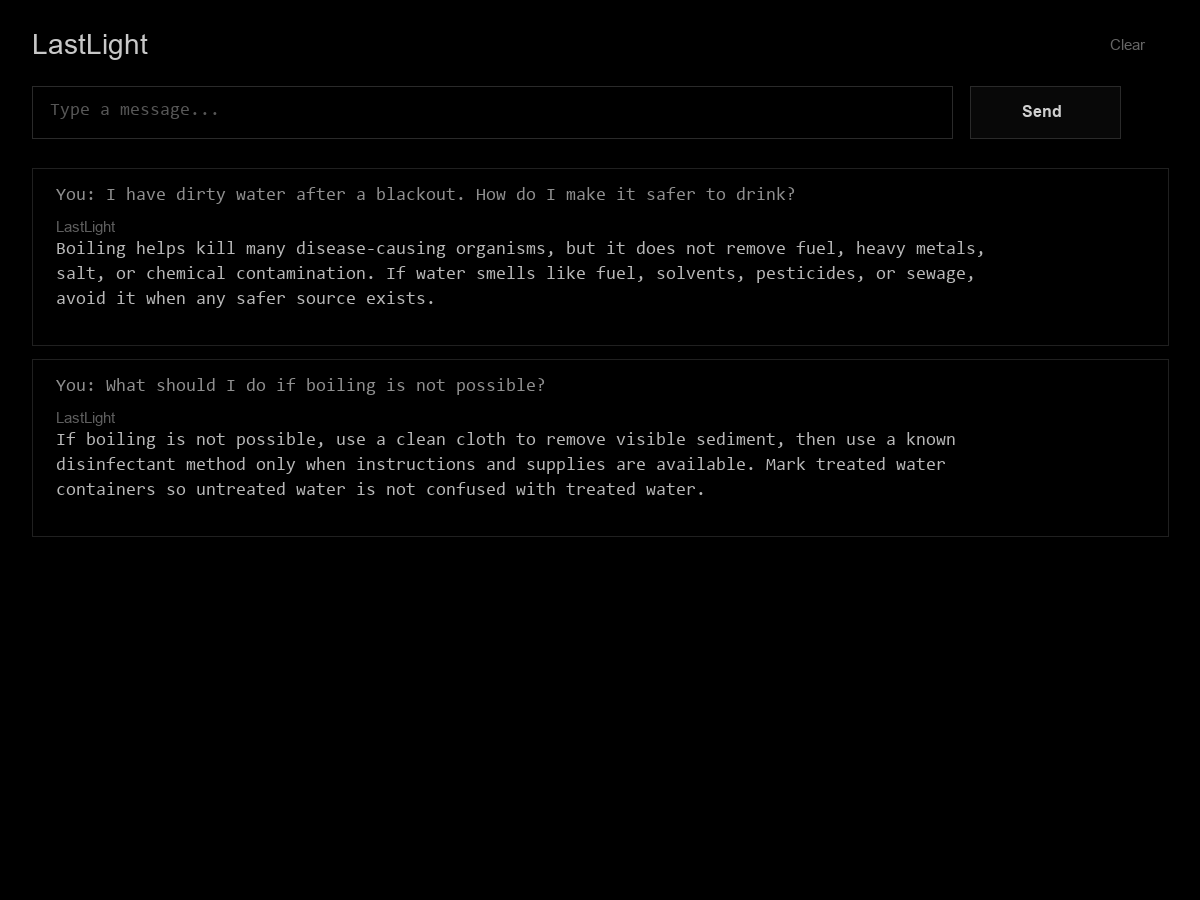
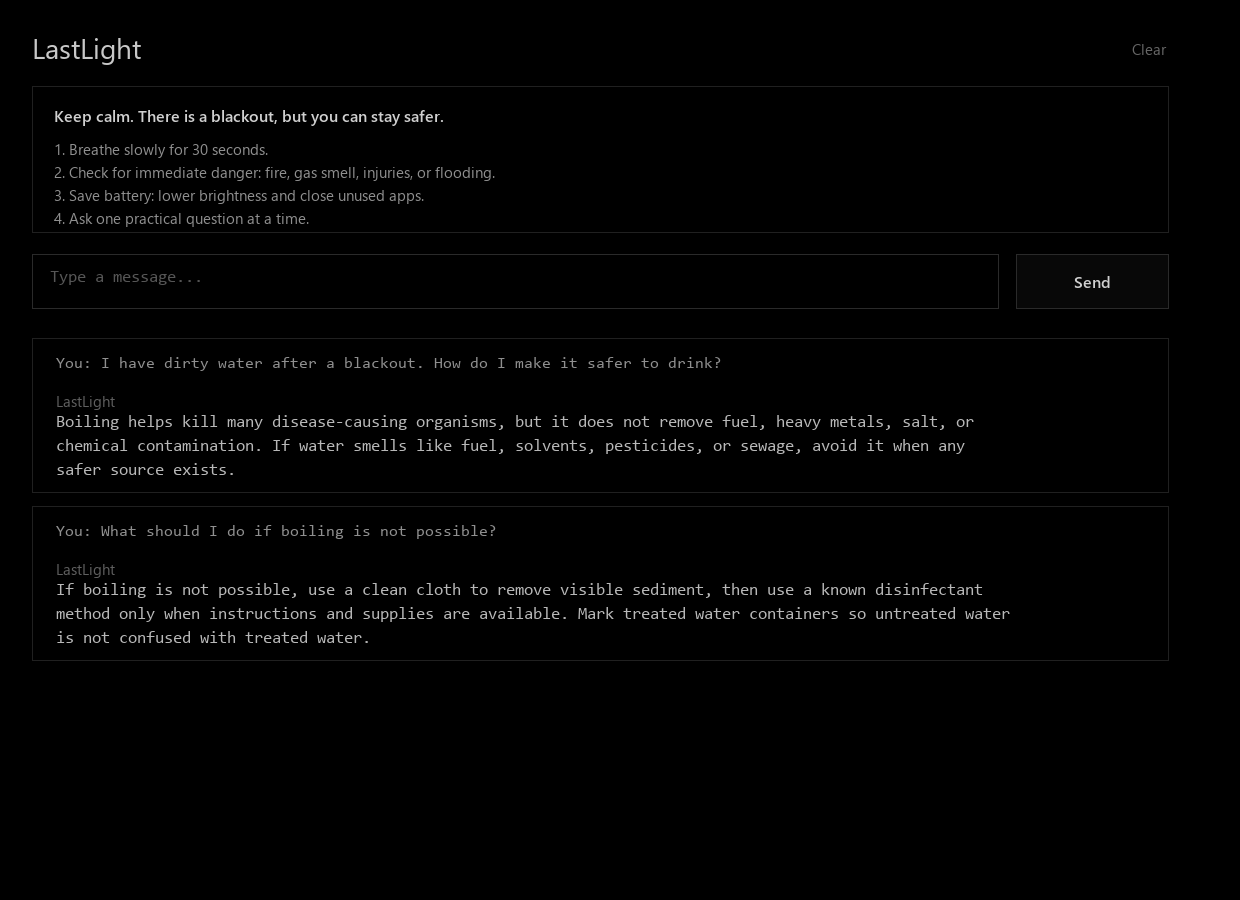
Add blackout calm checklist to web UI

diff --git a/src/lastlight/web.py b/src/lastlight/web.py
@@ -55,6 +55,23 @@ h1 {{ color: #c8c8c8; font-size: 1.25rem; margin: 0; }}
 }}
 .clear:focus,
 .clear:hover {{ color: #999; }}
+.calm {{
+  border: 1px solid #202020;
+  margin-bottom: 1rem;
+  padding: .85rem .95rem;
+}}
+.calm strong {{
+  color: #d0d0d0;
+  display: block;
+  font-size: .95rem;
+  margin-bottom: .45rem;
+}}
+.calm ol {{
+  color: #8f8f8f;
+  margin: 0;
+  padding-left: 1.2rem;
+}}
+.calm li {{ margin: .15rem 0; }}
 form {{ display: flex; gap: .6rem; margin-bottom: 1rem; }}
 input {{
   flex: 1;
@@ -110,6 +127,15 @@ pre {{
 <h1>LastLight</h1>
 <a class="clear" href="/?clear=1">Clear</a>
 </div>
+<section class="calm" aria-label="Blackout safety reminder">
+<strong>Keep calm. There is a blackout, but you can stay safer.</strong>
+<ol>
+<li>Breathe slowly for 30 seconds.</li>
+<li>Check for immediate danger: fire, gas smell, injuries, or flooding.</li>
+<li>Save battery: lower brightness and close unused apps.</li>
+<li>Ask one practical question at a time.</li>
+</ol>
+</section>
 <form method="post">
 <input name="q" value="{escaped_query}" placeholder="Type a message..." autocomplete="off" autofocus>
 <button>Send</button>

diff --git a/tests/test_web.py b/tests/test_web.py
@@ -43,6 +43,8 @@ class WebTests(unittest.TestCase):
         self.assertNotIn("<answer>", html)
         self.assertIn('placeholder="Type a message..."', html)
         self.assertIn('href="/?clear=1"', html)
+        self.assertIn("Keep calm.", html)
+        self.assertIn("Breathe slowly for 30 seconds.", html)
 
     def test_render_history_shows_multiple_turns(self) -> None:
         html = render_history(

diff --git a/README.md b/README.md
@@ -23,7 +23,7 @@ python src/main.py --knowledge path/to/pack.zip "find north without a compass"
 
 ## Frontend
 
-Start the optional local web UI. It uses a pure black, low-brightness theme and shows only the answer passage:
+Start the optional local web UI. It uses a pure black, low-brightness theme, opens with a short calm-and-safety checklist, and shows only the answer passage:
 
 ```bash
 python src/main.py --serve